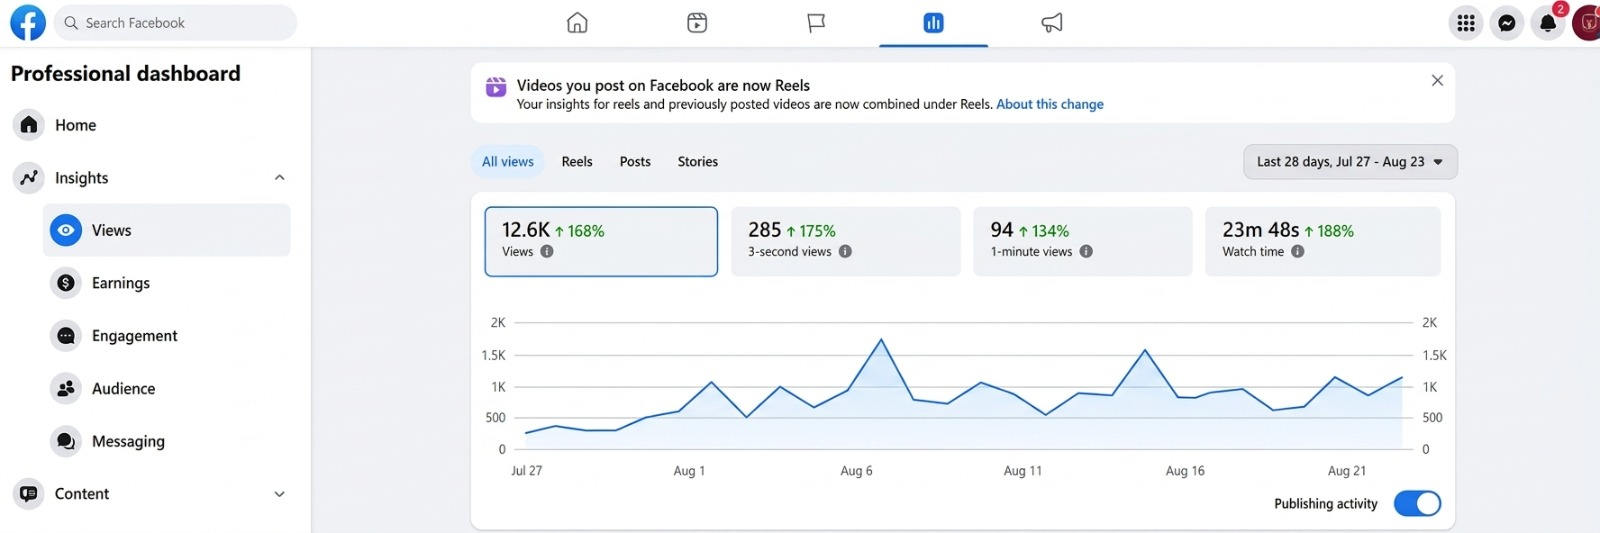
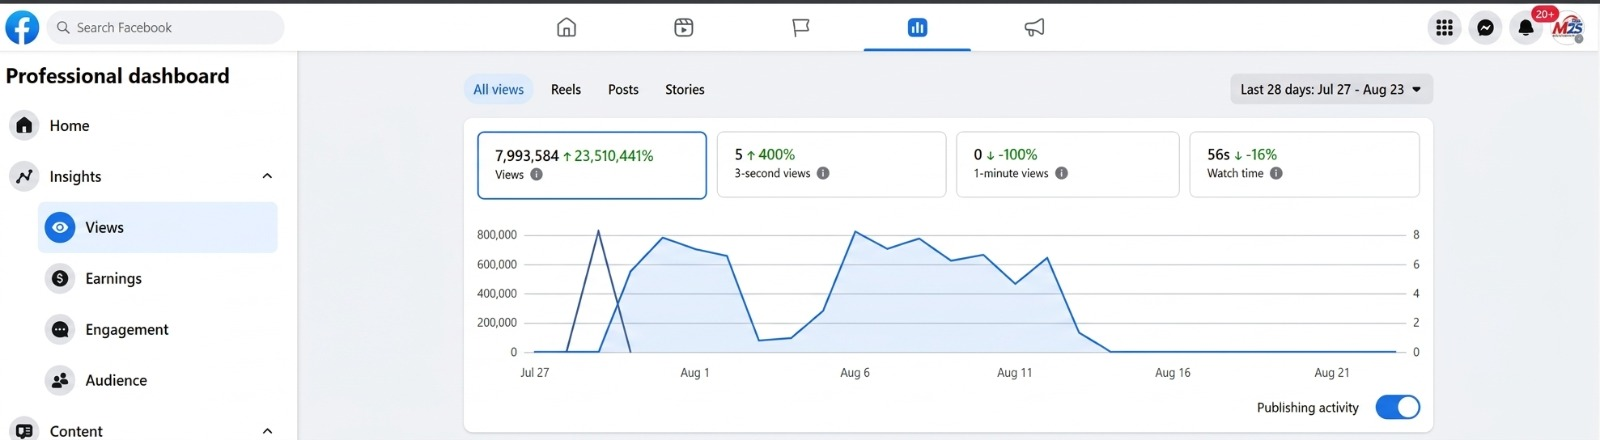
Update portfolio content: testimonials, project write-ups, heading

diff --git a/project.html b/project.html
@@ -277,10 +277,10 @@
                                             <div class="col-lg-6">
                                                 <div class="project-content p-lg-4 p-3">
                                                     <h2 class="title mb-2" style="font-size: 32px; font-weight: 700;">Cinematic Craft</h2>
-                                                    <span class="d-block mb-3" style="font-weight: 600; font-size: 18px; color: #ff5722;">Social Media Management & Strategy</span>
-                                                    <h3 class="mb-3" style="font-size: 16px;"><span style="font-weight: 700;">Toolkit:</span> Hootsuite, Canva, TikTok, Instagram</h3>
+                                                    <span class="d-block mb-3" style="font-weight: 600; font-size: 18px; color: #ff5722;">Paid Social Media Advertising</span>
+                                                    <h3 class="mb-3" style="font-size: 16px;"><span style="font-weight: 700;">Toolkit:</span> Meta Ads Manager, Canva, Instagram, Facebook</h3>
                                                     <p style="line-height: 1.8; margin-bottom: 20px;">
-                                                        Spearheaded the social media launch for Cinematic Craft, rapidly scaling their audience across TikTok and Instagram. Developed high-impact visual campaigns and consistent posting schedules that drove a 300% increase in monthly engagement.
+                                                        Planned and managed paid social media campaigns for Cinematic Craft, using audience targeting, creative testing and campaign optimisation to improve the brand's visibility and reach potential customers. Developed ad creatives and messaging tailored to specific campaign objectives, while monitoring performance metrics to identify opportunities for optimisation and stronger results.
                                                     </p>
                                                     
                                                 </div>
@@ -294,8 +294,8 @@
                                             </div>
                                             <div class="col-lg-6">
                                                 <div class="project-content p-lg-4 p-3">
-                                                    <h2 class="title mb-2" style="font-size: 32px; font-weight: 700;">Genova Transact</h2>
-                                                    <span class="d-block mb-3" style="font-weight: 600; font-size: 18px; color: #ff5722;">Head of Marketing — Lagos, Nigeria</span>
+                                                    <h2 class="title mb-2" style="font-size: 32px; font-weight: 700;">Genova Business</h2>
+                                                    <span class="d-block mb-3" style="font-weight: 600; font-size: 18px; color: #ff5722;">Head of Marketing</span>
                                                     <h3 class="mb-3" style="font-size: 16px;"><span style="font-weight: 700;">Toolkit:</span> Meta Business Suite, Hootsuite, Canva</h3>
                                                     <p style="line-height: 1.8; margin-bottom: 20px;">
                                                         Led social media and overall digital marketing strategy across platforms, planning and executing growth-focused campaigns. Increased audience engagement and brand awareness through proactive community interaction and content testing.

diff --git a/index.html b/index.html
@@ -443,7 +443,7 @@
                             <div class="row align-items-end mb-5 pb-2">
                                 <div class="col-lg-7">
                                     <p style="font-size: 0.8rem; font-weight: 700; text-transform: uppercase; letter-spacing: 3px; color: #93F203; margin-bottom: 12px; background: rgba(147,242,3,0.12); display: inline-block; padding: 6px 16px; border-radius: 4px;">Work Experience</p>
-                                    <h2 style="font-size: clamp(2rem, 4vw, 3rem); font-weight: 800; color: #0D0D0D; line-height: 1.15; margin: 0;">Real Results for Real Brands —<br><span style="color: #0D0D0D; opacity: 0.45;">Social Media Since 2022</span></h2>
+                                    <h2 style="font-size: clamp(2rem, 4vw, 3rem); font-weight: 800; color: #0D0D0D; line-height: 1.15; margin: 0;">Building an unforgettable presence for brands.</h2>
                                 </div>
                                 <div class="col-lg-5 text-lg-end mt-4 mt-lg-0">
                                     <a href="project" style="font-size: 0.85rem; font-weight: 700; text-transform: uppercase; letter-spacing: 1px; color: #0D0D0D; text-decoration: none; border-bottom: 2px solid #93F203; padding-bottom: 4px;">View Portfolio &rarr;</a>
@@ -716,10 +716,10 @@
                                         <div style="height: 1px; background: rgba(255,255,255,0.06); margin-bottom: 24px;"></div>
                                         <!-- Reviewer -->
                                         <div style="display: flex; align-items: center; gap: 16px;">
-                                            <div style="width: 48px; height: 48px; border-radius: 50%; background: linear-gradient(135deg, #93F203, #5db800); display: flex; align-items: center; justify-content: center; font-weight: 800; font-size: 1.1rem; color: #0D0D0D; flex-shrink: 0;">G</div>
+                                            <div style="width: 48px; height: 48px; border-radius: 50%; background: linear-gradient(135deg, #93F203, #5db800); display: flex; align-items: center; justify-content: center; font-weight: 800; font-size: 1.1rem; color: #0D0D0D; flex-shrink: 0;">J</div>
                                             <div>
-                                                <div style="font-weight: 700; color: #fff; font-size: 1rem;">Mr. Godwin Lawson</div>
-                                                <div style="font-size: 0.82rem; color: #93F203; font-weight: 600; margin-top: 2px;">Founder, Mita School Hubb</div>
+                                                <div style="font-weight: 700; color: #fff; font-size: 1rem;">Mr. Joel Inyang</div>
+                                                <div style="font-size: 0.82rem; color: #93F203; font-weight: 600; margin-top: 2px;">Founder, Genova business</div>
                                             </div>
                                             <!-- Stars -->
                                             <div style="margin-left: auto; display: flex; gap: 3px;">
